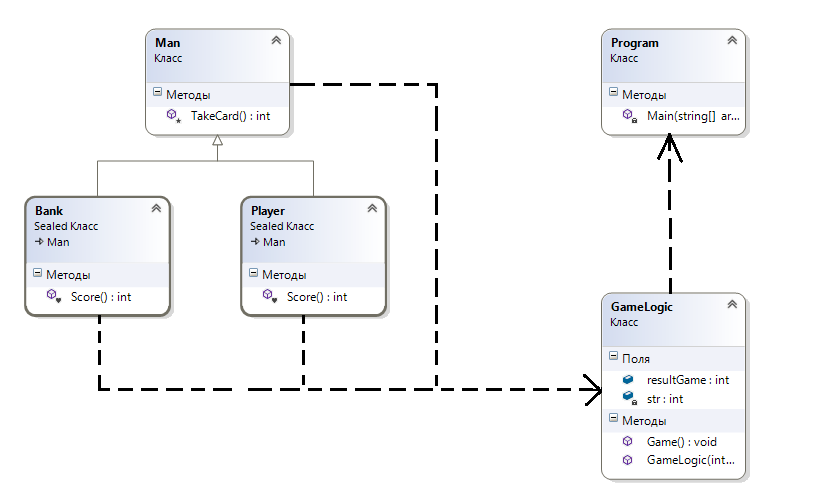
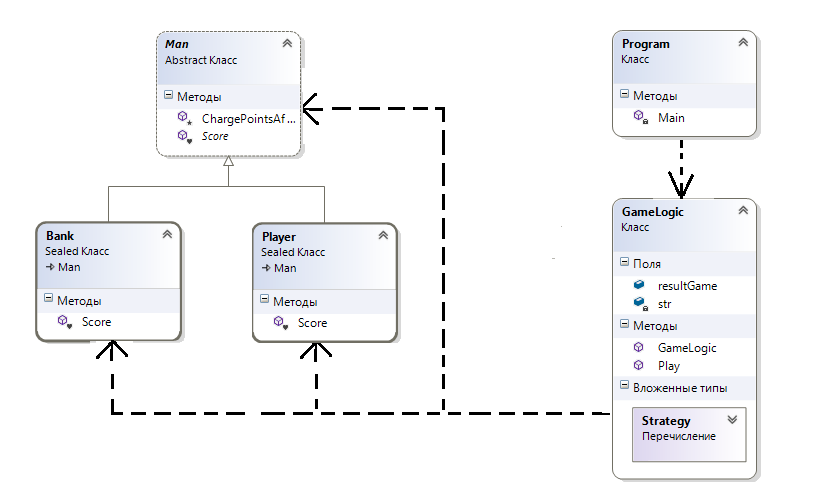
Baccarat 4.0

diff --git a/LastSpring/Baccarat/Baccarat/GameLogic.cs b/LastSpring/Baccarat/Baccarat/GameLogic.cs
@@ -11,37 +11,45 @@ namespace Baccarat
     {
         int str;
         public int resultGame;
-        
+        public enum Strategy { AllOnPlayer = 1, AllOnBank= 2, AllOnDraw=3}
         public GameLogic(int str)
         {
             this.str = str;
         }
         
-        public void Game()
+        public void Play()
         {
             int[] result = new int[3];  // 0    Lose Player
                                         // 1     Draw
                                         // 2     Win Player
             int rate = 50;
             int startMoney = 1000;
+            int counter = 0;
             Player player = new Player();
             var bank = new Bank();
             for (int i = 1; i <= 40; i++)
             {
-                int p = player.Score();
-                int b = bank.Score();
+                int p = player.Score(ref counter);
+                int b = bank.Score(ref counter);
                 if (p > b)
                     result[0]++;
                 if (p < b)
                     result[2]++;
                 if (p == b)
                     result[1]++;
+                if((result[1]+result[2]-result[0]>=20 && str == (int)Strategy.AllOnPlayer)
+                    ||(result[0] + result[2] - 9*result[1] >= 20 && str == (int)Strategy.AllOnDraw)
+                    || (result[1] + result[0] - result[2] >= 20 && str == (int)Strategy.AllOnBank))
+                {
+                    Console.WriteLine("GAME OVER on {0} game", result[1]+result[2]+result[0]);
+                    break;
+                }
             }
-            if (str == 1)    // Все ставки на победу игрока.
+            if (str == (int)Strategy.AllOnPlayer)    // Все ставки на победу игрока.
                 resultGame = startMoney + rate * (-result[2] - result[1] + result[0]);
-            if (str == 2)    //lose
+            if (str == (int)Strategy.AllOnBank)    //lose
                 resultGame = startMoney + rate * (result[2] - result[1] - result[0]);
-            if (str == 3)    //draw
+            if (str == (int)Strategy.AllOnDraw)    //draw
                 resultGame = startMoney + rate * (-result[2] + 9 * result[1] - result[0]);
         }  
     }

diff --git a/LastSpring/Baccarat/Baccarat/Man.cs b/LastSpring/Baccarat/Baccarat/Man.cs
@@ -7,14 +7,14 @@ using System.Threading.Tasks;
 
 namespace Baccarat
 {
-    class Man
+    abstract class Man
     {
-        protected int TakeCard()  // В игре будет взято максимум 6 карт, при наличии 6 колод взятые карты могут быть
-        {               // одинаковыми, поэтому метод TakeCard универсален для любого взятия карты
-            Random rand = new Random();
-            int i = rand.Next(1, 52);
+        protected int ChargePointsAfterDraw(ref int counter) {
+            Random rand = new Random((int)System.DateTime.Now.Millisecond);
+            byte[] b = new byte[20];
+            rand.NextBytes(b);
             int score = 0;
-            switch (i % 13)
+            switch (b[counter] % 13)
             {
                 case 0: score = 1; break;//туз
                 case 1: score = 2; break;//двойка
@@ -30,8 +30,10 @@ namespace Baccarat
                 case 11: break;
                 case 12: break;
             }
-            Thread.Sleep(15);
+            counter++;
+            counter = counter % 20;
             return score;
         }
+        abstract internal int Score(ref int counter);
     }
 }

diff --git a/LastSpring/Baccarat/Baccarat/Program.cs b/LastSpring/Baccarat/Baccarat/Program.cs
@@ -13,15 +13,18 @@ namespace Baccarat
             Console.WriteLine();
 
             Console.Write("Enter Strategy (1 - all rates for lose player,\n 2 - all rates for win player, 3 - all rates for drow): ");
-            while (1 == 1)
+            while (true)
             {
                 try {
                     int str = Convert.ToInt32(Console.ReadLine());
                     GameLogic gm = new GameLogic(str);
-                    gm.Game();
+                    Console.WriteLine();
+                    gm.Play();
                     Console.WriteLine("Result game: {0} ye", gm.resultGame);
                     Console.WriteLine();
-                    Console.Write("For continue enter Strategy:");
+                    Console.WriteLine();
+                    Console.WriteLine();
+                    Console.Write("For continue enter Strategy: ");
                 }
                 catch (System.FormatException)
                 {

diff --git a/LastSpring/Baccarat/Baccarat/Player.cs b/LastSpring/Baccarat/Baccarat/Player.cs
@@ -8,14 +8,13 @@ namespace Baccarat
 {
     sealed class Player: Man
     {
-        internal int Score()
+        override internal int Score(ref int counter)
         {
             int s;
-            s = (TakeCard() + TakeCard()) % 10; // Счёт после взятия двух карт
-            if (s < 6)  //Добор ещё одной при определённом условии
-            {
-                s = (s + TakeCard()) % 10;
-            }
+            s = (ChargePointsAfterDraw(ref counter) + ChargePointsAfterDraw(ref counter)) % 10;
+            if (s < 6)
+                s = (s + ChargePointsAfterDraw(ref  counter)) % 10;
+            
             return s;
         }
     }

diff --git a/LastSpring/Baccarat/Baccarat/Bank.cs b/LastSpring/Baccarat/Baccarat/Bank.cs
@@ -8,14 +8,12 @@ namespace Baccarat
 {
     sealed class Bank: Man
     {
-        internal int Score()
+        override internal int Score(ref int counter)
         {
             int s;
-            s = (TakeCard() + TakeCard()) % 10; // Счёт после взятия двух карт
+            s = (ChargePointsAfterDraw(ref counter) + ChargePointsAfterDraw(ref counter)) % 10;
             if (s < 5)
-            {
-                s = (s + TakeCard()) % 10;
-            }
+                s = (s + ChargePointsAfterDraw(ref  counter)) % 10;
             return s;
         }
     }
